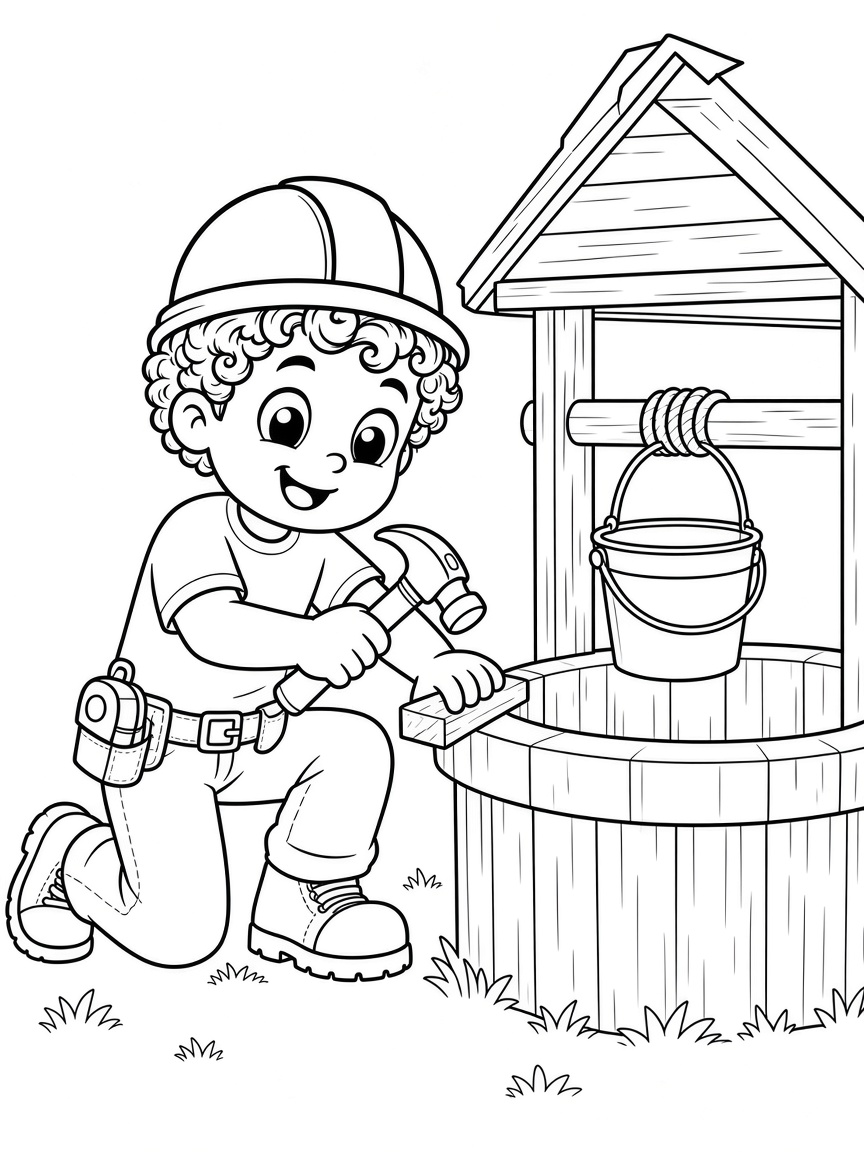
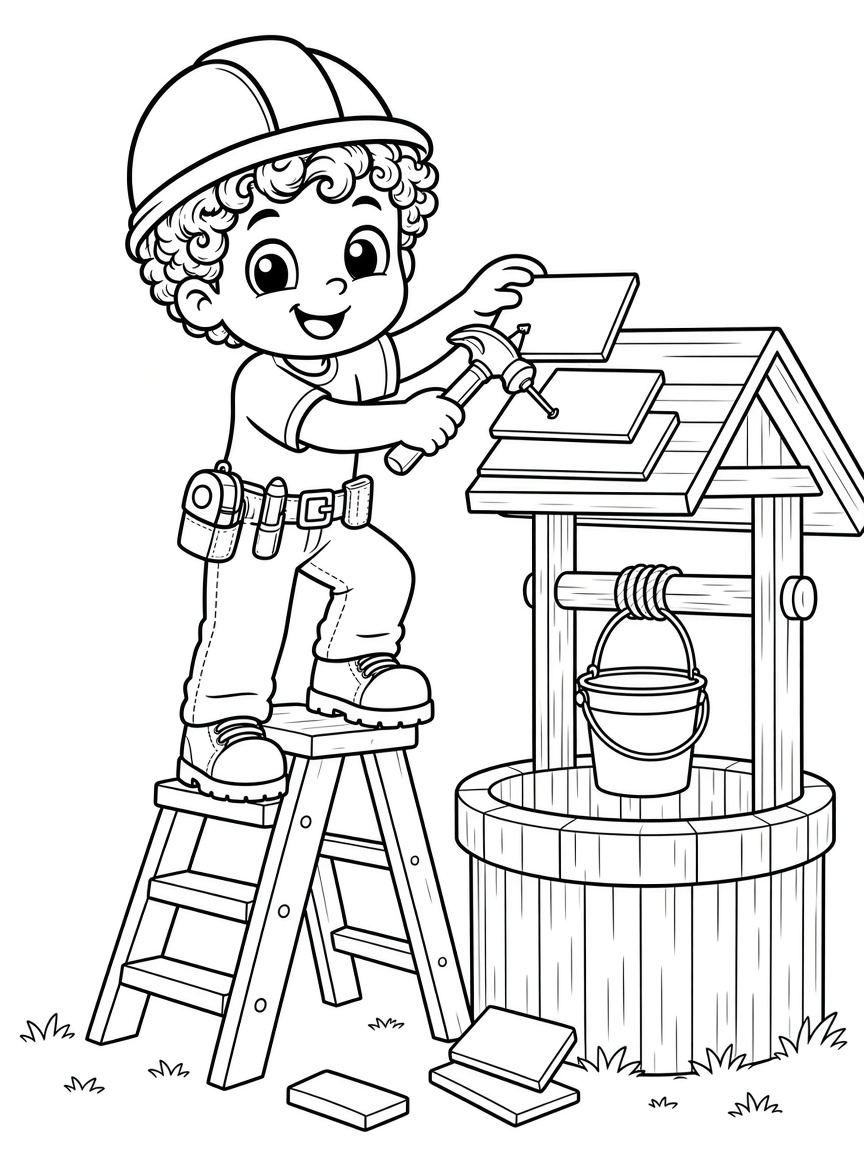
Redraw the well: Kody on a step ladder nailing shingles.
Keep the kneeling well as an extra. Caption is now "Kody puts the roof on."

diff --git a/kody-the-carpenter/DESIGN-BIBLE.md b/kody-the-carpenter/DESIGN-BIBLE.md
@@ -84,6 +84,7 @@ Good poses:
 - Crouching to pick up a board
 - Bending over a table, nailing
 - Kneeling to hammer or measure
+- On a short step ladder, nailing shingles
 - Carrying lumber
 - Sawing on two horses
 - Checking a level
@@ -145,9 +146,9 @@ Ramp difficulty. Start small. Fort is 9. Well is 10. Each one is something a kid
 | 7 | Picnic table | Outdoor. Two benches. Drawn: Kody bending, nailing. |
 | 8 | Lemonade stand | Sign, pitcher, cups. Kids go wild colouring this. |
 | 9 | Fort | The dream build. Boards, window, flag. No ta-da. |
-| 10 | Well | Confirmed. Kid wishing well, bucket, roof. Drawn: Kody kneeling, hammering. |
+| 10 | Well | Confirmed. Kid wishing well. Drawn: Kody on a short step ladder, nailing shingles on the roof. |
 
-Drawn but **not slotted:** doghouse (`pages/builds/extra-doghouse.png`), carpenter's square (`pages/opening/square-mark.png`). Crouch/pickup is a pose study, not a numbered page.
+Drawn but **not slotted:** doghouse (`pages/builds/extra-doghouse.png`), kneeling well (`pages/builds/extra-well-kneel.png`), carpenter's square (`pages/opening/square-mark.png`). Crouch/pickup is a pose study, not a numbered page.
 
 Each build is **one page.** Kody plus the object, mid-build or just finished, big enough to colour. Safety glasses on. Do not split Plan / Build / Done at this page count.
 
@@ -212,5 +213,5 @@ A page is done when all of these are true:
 - A 4-year-old has at least five big shapes to colour.
 - About 70 to 80% of the page is empty white.
 - The caption can be read in one breath.
-- Nothing on the page would get a kid in trouble if they copied it for real (no climbing on roofs, no power saws, no "don't need goggles").
+- Nothing on the page would get a kid in trouble if they copied it for real (no standing on a house roof, no power saws, no "don't need goggles"). A short step ladder beside a kid-sized well is OK.
 - It still looks like a colouring page in a cheap photocopy. If the photocopy turns to mud, there is too much detail.

diff --git a/kody-the-carpenter/PAGE-MAP.md b/kody-the-carpenter/PAGE-MAP.md
@@ -70,9 +70,9 @@ Each page: Kody building it, object big enough to colour, 70 to 80% white space.
 | 15 | Picnic table | **drawn** `15-picnic.png` | "Kody builds a picnic table." | Bending over, nailing the tabletop. Two benches. |
 | 16 | Lemonade stand | not drawn | "Cold lemonade! Come and get it!" | Stand, outline letters LEMONADE, pitcher, 2 cups. |
 | 17 | Fort | not drawn | "Kody built a fort!" | Kid-sized fort, one square window, blank flag. Working pose, not ta-da. |
-| 18 | Well | **drawn** `18-well.png` | "Kody builds a well." | Kneeling, hammering the well wall. Roof, rope, bucket. |
+| 18 | Well | **drawn** `18-well.png` | "Kody puts the roof on." | Short A-frame step ladder. Kody stands on the ladder, nailing shingles onto the well roof. Spare shingles on the grass. Bucket still hanging. |
 
-No roof-climbing. Step stool only on the fort page.
+No house-roof climbing. Short step ladder is OK on the well page. He stands on the ladder, not on the roof. Step stool OK on the fort page.
 
 ---
 
@@ -103,6 +103,7 @@ Not drawn yet.
 | File | What | Why it is extra |
 | --- | --- | --- |
 | `pages/builds/extra-doghouse.png` | Doghouse with a watching dog | Drawn before the 10th build was locked as the well |
+| `pages/builds/extra-well-kneel.png` | Kneeling, hammering the well wall | First well pass. Replaced by the ladder/shingles page. |
 | `pages/opening/square-mark.png` | Carpenter's square | Tool study. Not an opening page. |
 | `references/kody-crouch-pickup.png` | Crouching, picking up a board | Pose lock for later pages. Not a numbered colouring page. |
 
@@ -127,7 +128,7 @@ Not drawn yet.
 15. Kody builds a picnic table.
 16. Cold lemonade! Come and get it!
 17. Kody built a fort!
-18. Kody builds a well.
+18. Kody puts the roof on.
 19. Build, then clean up.
 20. Every tool back in its place.
 21. Your turn. What will you build?

diff --git a/kody-the-carpenter/README.md b/kody-the-carpenter/README.md
@@ -11,7 +11,7 @@ This folder is the design kit for the book. Use it to keep every page looking li
 - `PROMPT-KIT.md` — copy-paste prompts so AI art stays consistent
 - `TOOLS.md` — free ways to generate more character options
 - `pages/opening/` — first 8 colouring pages
-- `pages/builds/` — picnic table (15), well (18), extra doghouse
+- `pages/builds/` — picnic table (15), well with ladder and shingles (18), extra doghouse, extra kneeling well
 - `references/kody-character-locked.png` — locked look (option D, five-digit hands)
 - `references/kody-crouch-pickup.png` — action pose study (crouch, pick up a board)
 - `references/kody-character-v1.jpg` — original ChatGPT look
@@ -30,7 +30,7 @@ This folder is the design kit for the book. Use it to keep every page looking li
 
 ## Drawn so far
 
-Opening 1 to 8. Picnic table. Well. Crouch pose study. Doghouse (unslotted). Square (unslotted).
+Opening 1 to 8. Picnic table. Well with ladder and shingles. Crouch pose study. Doghouse, kneeling well, and square stay extra.
 
 Still needed: birdhouse, planter, stool, frame, toy box, bookshelf, lemonade, fort, close 19 to 22, coloured cover.
 

diff --git a/kody-the-carpenter/PROMPT-KIT.md b/kody-the-carpenter/PROMPT-KIT.md
@@ -78,7 +78,7 @@ Kody building [OBJECT], which is finished enough to recognise. He uses [TOOL]. W
 | 7 | picnic table with two benches | hammer | drawn: `15-picnic.png` | bending, nailing the top |
 | 8 | lemonade stand with sign | hammer | outline letters LEMONADE, pitcher, 2 cups | assembling |
 | 9 | kid-sized wooden fort with one square window | hammer | blank flag | carrying a board into the door. Not ta-da. |
-| 10 | kid-sized wooden wishing well, roof, rope, bucket | hammer | drawn: `18-well.png` | kneeling, hammering the wall |
+| 10 | kid-sized wooden wishing well, bucket, pitched roof | hammer | drawn: `18-well.png` | on a short step ladder, nailing shingles |
 
 ---
 
